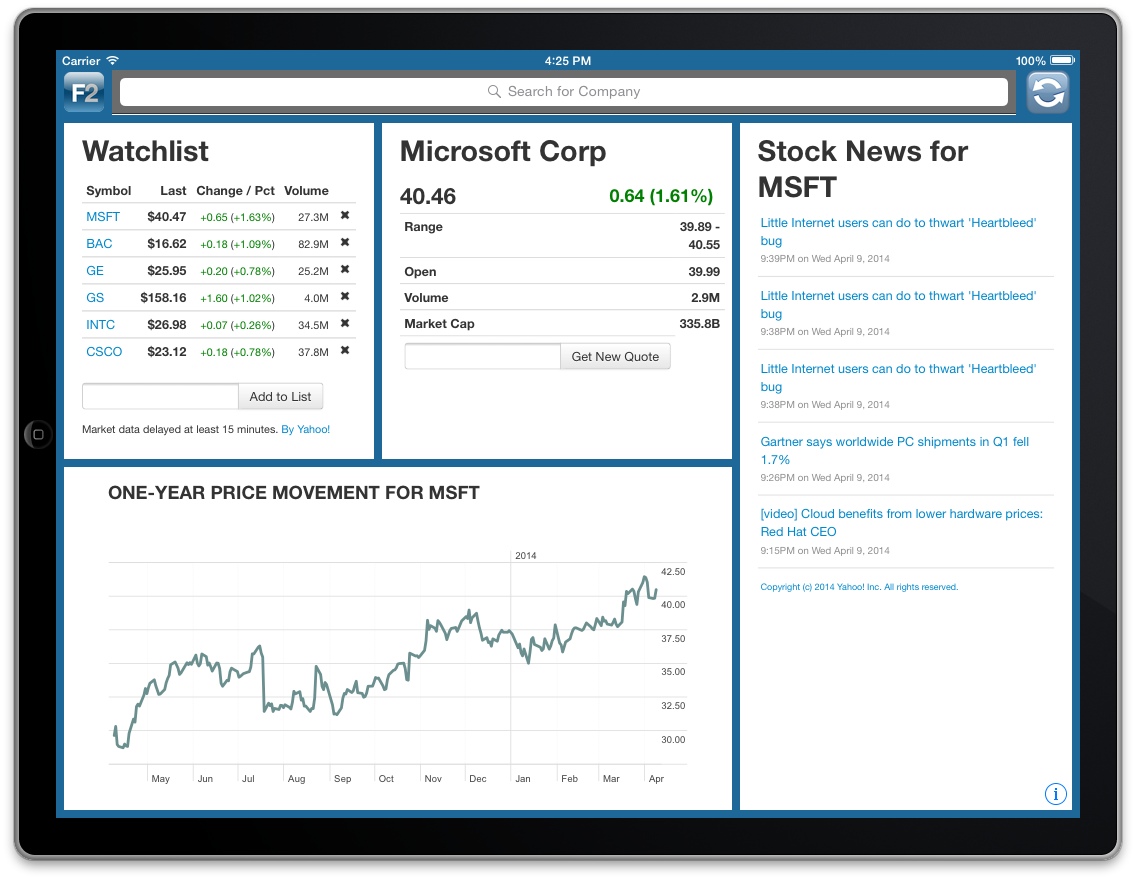
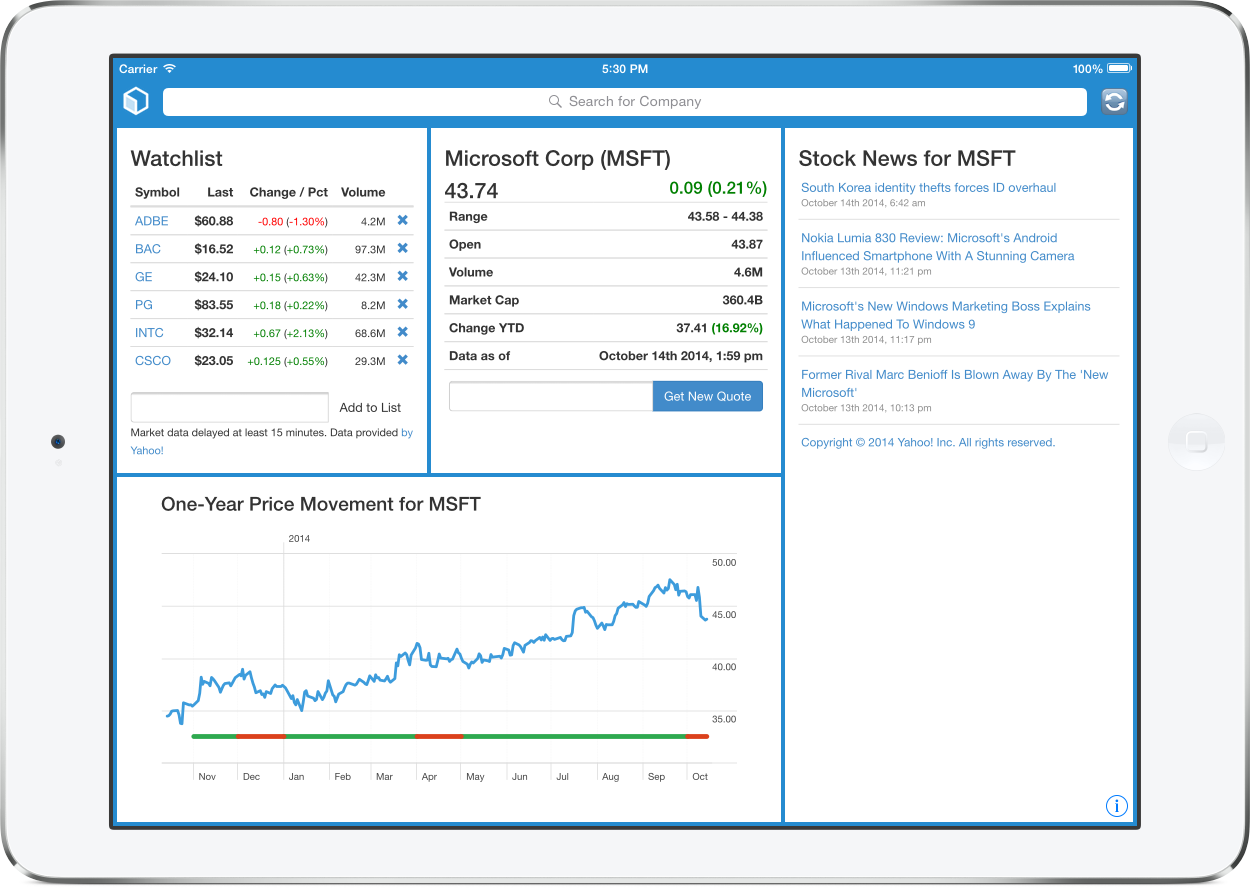
ios8bs3 #2

diff --git a/index.html b/index.html
@@ -15,7 +15,7 @@
   <body>
     <div class="wrapper">
       <header>
-        <div><img src="http://www.openf2.org/img/logo-blue-400x400.png" width="130"></div>
+        <div><img src="http://www.openf2.org/img/logo-400x400.png" width="130"></div>
         <h1>iOS-Container</h1>
         <p>F2 iOS Container Demo</p>
 
@@ -35,6 +35,10 @@
 <p>An iOS app demonstrating <a href="http://www.openf2.org">F2</a> App integration using UIWebViews, a JavaScript bridge for F2 Context, and a native search control querying the <a href="http://dev.markitondemand.com/#companylookup">Markit On Demand Lookup API</a>.</p>
 
 <p>Read the <a href="http://blog.openf2.org/2014/04/more-open-source-our-new-demo-ios.html">announcement on the F2 blog</a>.</p>
+
+<h2>Recently Updated!</h2>
+
+<p>This app was recently updated (October 15, 2014) to include iOS 8 compatibility and Bootstrap 3 support. </p>
 
 <p><img src="./images/ios-container.png"></p>
 
